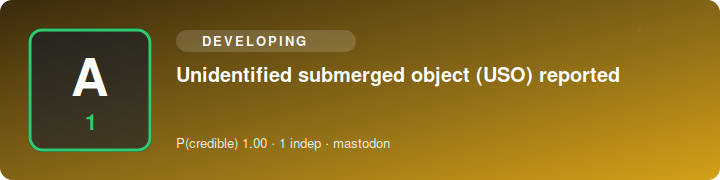
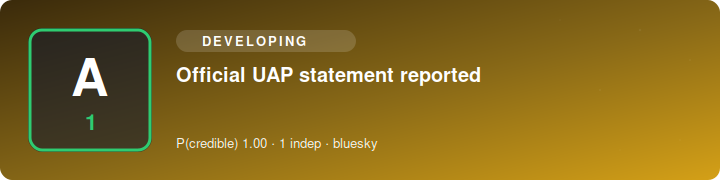
SITREP 2026-08-13 06:10 UTC

Changed region(s): [[0.2444, 0.3611, 0.8861, 0.5], [0.4583, 0.75, 0.55, 0.8333]]

diff --git a/index.html b/index.html
@@ -1,1 +1,1 @@
-<!doctype html><meta charset=utf-8><title>Science Bob News — SITREP</title><style>body{font:16px/1.5 system-ui,sans-serif;max-width:760px;margin:2rem auto;padding:0 1rem;color:#111}h1{font-size:1.5rem}h2{margin-top:1.6rem;border-bottom:1px solid #ddd;padding-bottom:.2rem}ul{list-style:none;padding:0}li{margin:.9rem 0}.hl{font-weight:600}.meta{color:#555;font-size:.85rem}.src{font-size:.85rem}.vid{font-size:.85rem;margin-top:.15rem}.card{display:block;max-width:100%;height:auto;border-radius:8px;margin:.4rem 0 .5rem}.upd{background:#fde68a;padding:0 .3rem;border-radius:.2rem;font-size:.75rem}.sub{color:#777;font-size:.85rem}footer{color:#777;font-size:.8rem;margin-top:2rem;border-top:1px solid #ddd;padding-top:.6rem}</style><h1>🛸 Science Bob News</h1><div class="sub">UAP / UFO / USO SITREP · updated 2026-08-13 06:00 UTC · automated</div><h2>Corroborated</h2><ul><li><img class="card" src="https://n4hy.github.io/sciencebobnews-site/card_c_1.svg" alt="" width="720" height="180"><div class="hl">UAP report</div><div class="meta">reliability <b>A1</b> · P(credible)=1.0 · 2 independent source(s) · mastodon</div><div class="src"><a href="https://fed.brid.gy/r/https://bsky.app/profile/did:plc:3l5f3rhsngpxljnskia73bj7/post/3msuoqvvxbk2e">@alcornews.bsky.social@bsky.brid.gy</a> · <a href="https://mastodon.social/@AlcorNews/117081535916346067">@AlcorNews</a></div></li><li><img class="card" src="https://n4hy.github.io/sciencebobnews-site/card_c_2.svg" alt="" width="720" height="180"><div class="hl">UAP report</div><div class="meta">reliability <b>A1</b> · P(credible)=1.0 · 2 independent source(s) · mastodon</div><div class="src"><a href="https://mastodon.social/@zougla/117081569875613819">@zougla</a> · <a href="https://pixelfed.social/p/Selfie/992908451493285227">@Selfie@pixelfed.social</a></div></li></ul><h2>Developing / unconfirmed</h2><ul><li><img class="card" src="https://n4hy.github.io/sciencebobnews-site/card_d_1.svg" alt="" width="720" height="180"><div class="hl">Official UAP statement reported (That)</div><div class="meta">reliability <b>A1</b> · P(credible)=1.0 · 1 independent source(s) · mastodon</div><div class="src"><a href="https://mastodon.au/@vibewire/117084252985101688">@vibewire@mastodon.au</a></div></li><li><img class="card" src="https://n4hy.github.io/sciencebobnews-site/card_d_2.svg" alt="" width="720" height="180"><div class="hl">Official UAP statement reported (Base)</div><div class="meta">reliability <b>A1</b> · P(credible)=1.0 · 1 independent source(s) · mastodon</div><div class="src"><a href="https://mastodon.au/@vibewire/117083582206844137">@vibewire@mastodon.au</a></div></li><li><img class="card" src="https://n4hy.github.io/sciencebobnews-site/card_d_3.svg" alt="" width="720" height="180"><div class="hl">Official UAP statement reported</div><div class="meta">reliability <b>A1</b> · P(credible)=1.0 · 1 independent source(s) · mastodon</div><div class="src"><a href="https://mastodon.au/@vibewire/117077529411784208">@vibewire@mastodon.au</a></div></li><li><img class="card" src="https://n4hy.github.io/sciencebobnews-site/card_d_4.svg" alt="" width="720" height="180"><div class="hl">Unidentified submerged object (USO) reported</div><div class="meta">reliability <b>A1</b> · P(credible)=1.0 · 1 independent source(s) · mastodon</div><div class="src"><a href="https://mastodon.art/@palatsirecords/117078522328631204">@palatsirecords@mastodon.art</a></div></li><li><img class="card" src="https://n4hy.github.io/sciencebobnews-site/card_d_5.svg" alt="" width="720" height="180"><div class="hl">Unidentified submerged object (USO) reported</div><div class="meta">reliability <b>A1</b> · P(credible)=1.0 · 1 independent source(s) · mastodon</div><div class="src"><a href="https://mastodon.social/@ScienceBob/117085884266483764">@ScienceBob</a></div></li></ul><footer><b>Powered by Science Bob News.</b> Free to use with credit (see LICENSE). Headlines are factual restatements in the engine's own words; click sources for originals. Single-origin reposts collapse to one source; prosaic candidates flagged where offered.</footer>
+<!doctype html><meta charset=utf-8><title>Science Bob News — SITREP</title><style>body{font:16px/1.5 system-ui,sans-serif;max-width:760px;margin:2rem auto;padding:0 1rem;color:#111}h1{font-size:1.5rem}h2{margin-top:1.6rem;border-bottom:1px solid #ddd;padding-bottom:.2rem}ul{list-style:none;padding:0}li{margin:.9rem 0}.hl{font-weight:600}.meta{color:#555;font-size:.85rem}.src{font-size:.85rem}.vid{font-size:.85rem;margin-top:.15rem}.card{display:block;max-width:100%;height:auto;border-radius:8px;margin:.4rem 0 .5rem}.upd{background:#fde68a;padding:0 .3rem;border-radius:.2rem;font-size:.75rem}.sub{color:#777;font-size:.85rem}footer{color:#777;font-size:.8rem;margin-top:2rem;border-top:1px solid #ddd;padding-top:.6rem}</style><h1>🛸 Science Bob News</h1><div class="sub">UAP / UFO / USO SITREP · updated 2026-08-13 06:10 UTC · automated</div><h2>Corroborated</h2><ul><li><img class="card" src="https://n4hy.github.io/sciencebobnews-site/card_c_1.svg" alt="" width="720" height="180"><div class="hl">UAP report</div><div class="meta">reliability <b>A1</b> · P(credible)=1.0 · 2 independent source(s) · mastodon</div><div class="src"><a href="https://fed.brid.gy/r/https://bsky.app/profile/did:plc:3l5f3rhsngpxljnskia73bj7/post/3msuoqvvxbk2e">@alcornews.bsky.social@bsky.brid.gy</a> · <a href="https://mastodon.social/@AlcorNews/117081535916346067">@AlcorNews</a></div></li><li><img class="card" src="https://n4hy.github.io/sciencebobnews-site/card_c_2.svg" alt="" width="720" height="180"><div class="hl">UAP report</div><div class="meta">reliability <b>A1</b> · P(credible)=1.0 · 2 independent source(s) · mastodon</div><div class="src"><a href="https://mastodon.social/@zougla/117081569875613819">@zougla</a> · <a href="https://pixelfed.social/p/Selfie/992908451493285227">@Selfie@pixelfed.social</a></div></li></ul><h2>Developing / unconfirmed</h2><ul><li><img class="card" src="https://n4hy.github.io/sciencebobnews-site/card_d_1.svg" alt="" width="720" height="180"><div class="hl">Official UAP statement reported (That)</div><div class="meta">reliability <b>A1</b> · P(credible)=1.0 · 1 independent source(s) · mastodon</div><div class="src"><a href="https://mastodon.au/@vibewire/117084252985101688">@vibewire@mastodon.au</a></div></li><li><img class="card" src="https://n4hy.github.io/sciencebobnews-site/card_d_2.svg" alt="" width="720" height="180"><div class="hl">Official UAP statement reported (Base)</div><div class="meta">reliability <b>A1</b> · P(credible)=1.0 · 1 independent source(s) · mastodon</div><div class="src"><a href="https://mastodon.au/@vibewire/117083582206844137">@vibewire@mastodon.au</a></div></li><li><img class="card" src="https://n4hy.github.io/sciencebobnews-site/card_d_3.svg" alt="" width="720" height="180"><div class="hl">Official UAP statement reported</div><div class="meta">reliability <b>A1</b> · P(credible)=1.0 · 1 independent source(s) · mastodon</div><div class="src"><a href="https://mastodon.au/@vibewire/117077529411784208">@vibewire@mastodon.au</a></div></li><li><img class="card" src="https://n4hy.github.io/sciencebobnews-site/card_d_4.svg" alt="" width="720" height="180"><div class="hl">Unidentified submerged object (USO) reported</div><div class="meta">reliability <b>A1</b> · P(credible)=1.0 · 1 independent source(s) · mastodon</div><div class="src"><a href="https://mastodon.art/@palatsirecords/117078522328631204">@palatsirecords@mastodon.art</a></div></li><li><img class="card" src="https://n4hy.github.io/sciencebobnews-site/card_d_5.svg" alt="" width="720" height="180"><div class="hl">Official UAP statement reported</div><div class="meta">reliability <b>A1</b> · P(credible)=1.0 · 1 independent source(s) · bluesky</div><div class="src"><a href="https://bsky.app/profile/did:plc:7tk6sbi7kz35oemzzxdktmou/post/3mswbw5bha22g">@did:plc:7tk6sbi7kz35oemzzxdktmou</a></div></li></ul><footer><b>Powered by Science Bob News.</b> Free to use with credit (see LICENSE). Headlines are factual restatements in the engine's own words; click sources for originals. Single-origin reposts collapse to one source; prosaic candidates flagged where offered.</footer>

diff --git a/sitrep.md b/sitrep.md
@@ -1,5 +1,5 @@
 # 🛸 Science Bob News — UAP / UFO / USO SITREP
-*Updated 2026-08-13 06:00 UTC · auto-generated · sources credited & linked · reliability ratings are automated, not editorial*
+*Updated 2026-08-13 06:10 UTC · auto-generated · sources credited & linked · reliability ratings are automated, not editorial*
 
 ## Corroborated
 
@@ -31,9 +31,9 @@
 4. Unidentified submerged object (USO) reported — reliability A1 · 1 source(s)  
    [@palatsirecords@mastodon.art](https://mastodon.art/@palatsirecords/117078522328631204)
 
-![Unidentified submerged object (USO) reported](https://n4hy.github.io/sciencebobnews-site/card_d_5.svg)
-5. Unidentified submerged object (USO) reported — reliability A1 · 1 source(s)  
-   [@ScienceBob](https://mastodon.social/@ScienceBob/117085884266483764)
+![Official UAP statement reported](https://n4hy.github.io/sciencebobnews-site/card_d_5.svg)
+5. Official UAP statement reported — reliability A1 · 1 source(s)  
+   [@did:plc:7tk6sbi7kz35oemzzxdktmou](https://bsky.app/profile/did:plc:7tk6sbi7kz35oemzzxdktmou/post/3mswbw5bha22g)
 
 ---
 *Powered by Science Bob News. Free to use with credit (see LICENSE). Headlines are factual restatements in the engine's own words — click through to the linked sources for originals. Reposts of a single origin are collapsed to one source; candidate prosaic explanations are flagged where offered.*
